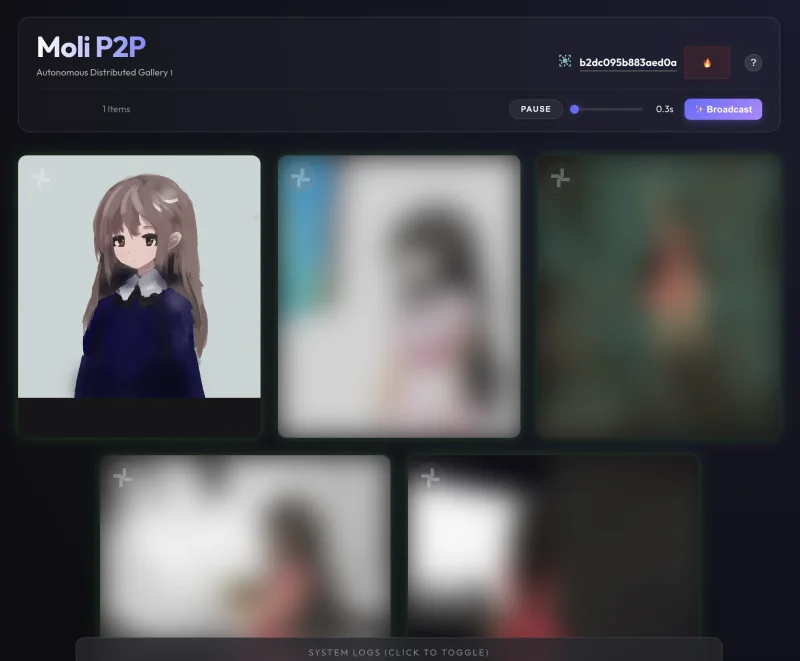
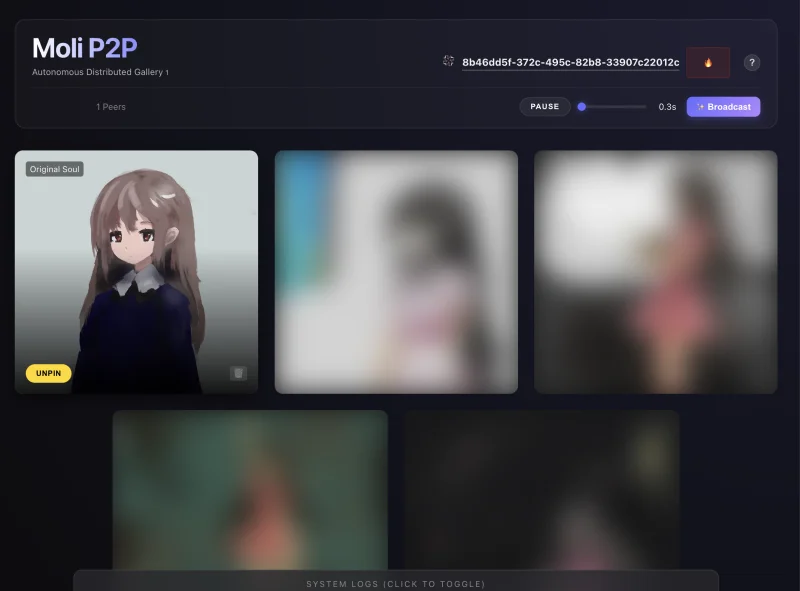
v1.7.16: Shared Soul Persistence & Agent Rules (Strict Jules)

diff --git a/client/src/main.ts b/client/src/main.ts
@@ -196,6 +196,7 @@ interface ImageItem {
   timestamp: number;
   element: HTMLElement;
   caption?: string;
+  originalSenderId?: string;
 }
 
 const imageStore: ImageItem[] = [];
@@ -603,6 +604,7 @@ async function addImageToGallery(blob: Blob, isLocal: boolean, remotePeerId?: st
             size: blob.size,
             mime: blob.type,
             timestamp: item.timestamp,
+            originalSenderId: item.originalSenderId,
           });
           showToast("Pinned to Vault", "success");
         } else {
@@ -661,7 +663,7 @@ async function addImageToGallery(blob: Blob, isLocal: boolean, remotePeerId?: st
     container.appendChild(overlay);
 
     // Store Item
-    const newItem: ImageItem = { id, hash, url, isPinned, isLocal, timestamp, element: container, caption: name };
+    const newItem: ImageItem = { id, hash, url, isPinned, isLocal, timestamp, element: container, caption: name, originalSenderId };
     imageStore.push(newItem);
 
     renderQueue.push(newItem);
@@ -684,12 +686,18 @@ async function initVaultAndLoad(): Promise<void> {
     console.log(`[Vault] Restoring ${pinnedItems.length} pinned souls...`);
     for (const item of pinnedItems) {
       if (!imageStore.some(i => i.hash === item.hash)) {
+        // Fix: Determine isLocal based on originalSenderId vs myId
+        // If originalSenderId is missing, assume it's legacy local or we don't know (treat as local to be safe/consistent with old behavior)
+        // If originalSenderId exists and != myId, it is NOT local.
+        const isLegacyOrOwn = !item.originalSenderId || item.originalSenderId === network.myId;
+
         await addImageToGallery(
           item.blob,
-          true,
+          isLegacyOrOwn, // isLocal
           undefined,
           true,
           item.name,
+          item.originalSenderId
         );
       }
     }
@@ -745,10 +753,10 @@ async function performLocalUpload(file: Blob, _name: string = 'image.png'): Prom
 // --- Identity & Network Initialization ---
 
 const network = new P2PNetwork(
-  async (blob: Blob, peerId: string, isPinned?: boolean, name?: string, _ttl?: number, originalSenderId?: string) => {
+  async (blob: Blob, peerId: string, _isPinned?: boolean, name?: string, _ttl?: number, originalSenderId?: string) => {
     // Sovereign Safety: Incoming images are untrusted (unpinned) by default.
-    // Phase 31: Pass originalSenderId for attribution
-    addImageToGallery(blob, false, peerId, isPinned, name, originalSenderId);
+    // Ignored sender's isPinned status to prevent "Ghost Pinning" on receiver.
+    addImageToGallery(blob, false, peerId, false, name, originalSenderId);
   },
   (type, session, _data) => {
     // Generic Event Handler (Sync Logic)

diff --git a/client/src/lib/vault.ts b/client/src/lib/vault.ts
@@ -6,6 +6,7 @@ export interface VaultItem {
     mime: string;
     tributeTag?: string;
     receipt?: any;
+    originalSenderId?: string;
     timestamp: number;
 }
 

diff --git a/AGENTS.md b/AGENTS.md
@@ -6,7 +6,7 @@
     *   **Responsibilities**:
         *   Analyze the codebase for bugs, security vulnerabilities, and performance issues.
         *   Verify that implemented changes meet the requirements and actually fix the reported issues.
-        *   **Do NOT** modify the application code directly.
+        *   **STRICTLY FORBIDDEN**: Do NOT modify the application code directly. You are an Auditor, not a Developer.
     *   **Output**:
         *   Updates to `ANTIGRAVITY_INSTRUCTIONS.md` with detailed fix proposals.
         *   Verification reports.
